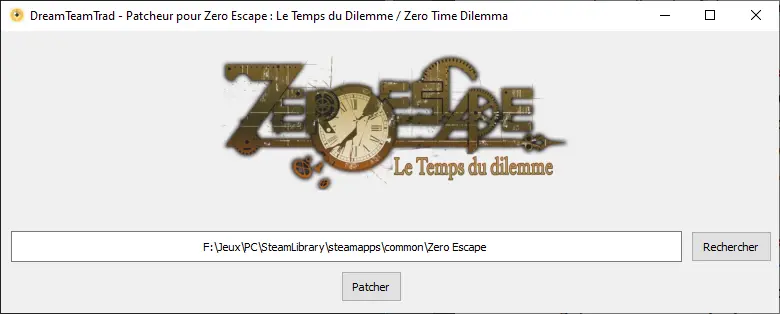
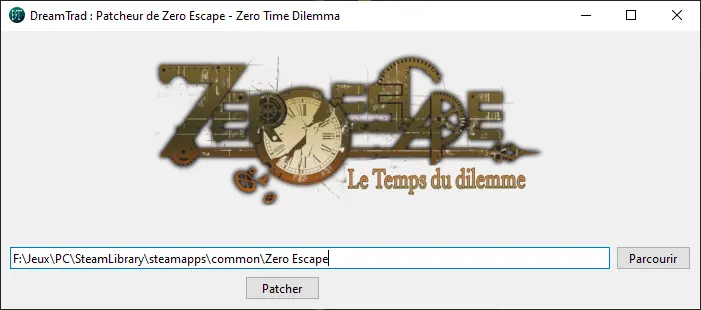
update ztd paranormasight

Changed region(s): [[0.2097, 0.1742, 0.7789, 0.6677], [0.0, 0.3194, 1.0, 1.0], [0.0, 0.0, 1.0, 0.2903]]

diff --git a/src/data/jeux/paranormasight/patchfr/installation/steamdeck.md b/src/data/jeux/paranormasight/patchfr/installation/steamdeck.md
@@ -4,13 +4,11 @@ Une fois que vous avez téléchargé le patch, il faudra d’abord l’extraire 
 
 - Allez en mode bureau et télécharger le patch. (Steamdeck)
 - Clic droit sur l’exe, faire ajouter à Steam.
-- Retournez en mode jeu, sur le "jeu" "PARANORMASIGHT_patch_automatique", allez dans les propriétés, et cocher la case pour compatibilité.
-- Vous pouvez désormais lancer le patcheur automatique
-- Sélectionnez le répertoire du jeu avec le bouton "Rechercher" s’il n’apparait pas automatiquement.
-- Cliquez sur "Patcher".
-- Attendez un petit moment…
-- … Et c’est bon !
-
-Si vous avez des problèmes, tentez de patcher manuellement.
+- Retournez en mode jeu, sur le *"jeu"* "DreamTrad_patcheur_fr_PARANORMASIGHT", allez dans les propriétés, et cocher la case pour compatibilité.
 
 ![Image logiciel pour patcher automatiquement](/jeux/paranormasight/patchfr/installation/logiciel_patch_auto.webp)
+
+- Si le chemin de votre jeu n’apparait pas, sélectionnez le avec le bouton "Parcourir".
+- Cliquez sur "Patcher". Attendez un peu, et ça sera bon, votre jeu sera patché !
+
+Si vous avez des problèmes, tentez de patcher manuellement.

diff --git a/src/data/jeux/ztd/patchfr/installation/steamdeck.md b/src/data/jeux/ztd/patchfr/installation/steamdeck.md
@@ -9,11 +9,11 @@ Propriétés → Fichiers installés → Vérifier l’intégrité des fichiers 
 
 - Allez en mode bureau et télécharger le patch. (Steamdeck)
 - Clic droit sur l’exe, faire ajouter à Steam.
-- Retournez en mode jeu, sur le "jeu" "ZTD_patch_automatique", allez dans les propriétés, et cocher la case pour compatibilité.
+- Retournez en mode jeu, sur le *"jeu"* "DreamTrad_patcheur_fr_ZeroTimeDilemma", allez dans les propriétés, et cocher la case pour compatibilité.
 
 ![Image logiciel pour patcher automatiquement](/jeux/ztd/patchfr/installation/logiciel_patch_auto.webp)
 
-- Si le chemin de votre jeu n’apparait pas, sélectionnez le avec le bouton "Rechercher".
+- Si le chemin de votre jeu n’apparait pas, sélectionnez le avec le bouton "Parcourir".
 - Cliquez sur "Patcher". Attendez un peu, et ça sera bon, votre jeu sera patché !
 
 Si vous avez des problèmes, tentez de patcher manuellement.

diff --git a/src/data/jeux/ai1/patchfr/installation/steamdeck.md b/src/data/jeux/ai1/patchfr/installation/steamdeck.md
@@ -2,11 +2,6 @@
 
 Une fois que vous avez téléchargé le patch, il faudra d’abord l’extraire car c’est un dossier compressé zip.
 
-- Si les fichiers de votre jeu ont été modifiés, allez dans les paramètres du jeu sur Steam, et faite :
-Propriétés → Fichiers installés → Vérifier l’intégrité des fichiers du jeu
-
-![Image restoration des fichiers d’origine Steam](/jeux/999/patchfr/installation/steam_restoration_fichiers.webp)
-
 - Allez en mode bureau et télécharger le patch. (Steamdeck)
 - Clic droit sur l’exe, faire ajouter à Steam.
 - Retournez en mode jeu, sur le *"jeu"* "DreamTrad_patcheur_fr_AI_The_Somnium_Files", allez dans les propriétés, et cocher la case pour compatibilité.

diff --git a/src/data/jeux/paranormasight/patchfr/installation/windows.md b/src/data/jeux/paranormasight/patchfr/installation/windows.md
@@ -2,10 +2,9 @@
 
 Une fois que vous avez téléchargé le patch, il faudra d’abord l’extraire car c’est un dossier compressé zip.
 
-- Lancez PARANORMASIGHT_patch_automatique.exe.
-- Sélectionnez le répertoire du jeu avec le bouton "Rechercher" s’il n’apparait pas automatiquement.
-- Cliquez sur "Patcher".
-- Attendez un petit moment…
-- … Et c’est bon !
+- Lancez DreamTrad_patcheur_fr_PARANORMASIGHT.
 
 ![Image logiciel pour patcher automatiquement](/jeux/paranormasight/patchfr/installation/logiciel_patch_auto.webp)
+
+- Si le chemin de votre jeu n’apparait pas, sélectionnez le avec le bouton "Parcourir".
+- Cliquez sur "Patcher". Attendez un peu, et ça sera bon, votre jeu sera patché !

diff --git a/src/data/jeux/ztd/patchfr/installation/windows.md b/src/data/jeux/ztd/patchfr/installation/windows.md
@@ -7,10 +7,9 @@ Propriétés → Fichiers installés → Vérifier l’intégrité des fichiers 
 
 ![Image restoration des fichiers d’origine Steam](/jeux/999/patchfr/installation/steam_restoration_fichiers.webp)
 
-
-- Lancez ZTD_patch_automatique.exe.
+- Lancez DreamTrad_patcheur_fr_ZeroTimeDilemma.
 
 ![Image logiciel pour patcher automatiquement](/jeux/ztd/patchfr/installation/logiciel_patch_auto.webp)
 
-- Si le chemin de votre jeu n’apparait pas, sélectionnez le avec le bouton "Rechercher".
+- Si le chemin de votre jeu n’apparait pas, sélectionnez le avec le bouton "Parcourir".
 - Cliquez sur "Patcher". Attendez un peu, et ça sera bon, votre jeu sera patché !

diff --git a/src/data/jeux/ai1/patchfr/installation/windows.md b/src/data/jeux/ai1/patchfr/installation/windows.md
@@ -2,11 +2,6 @@
 
 Une fois que vous avez téléchargé le patch, il faudra d’abord l’extraire car c’est un dossier compressé zip.
 
-- Si les fichiers de votre jeu ont été modifiés, allez dans les paramètres du jeu sur Steam, et faite :
-Propriétés → Fichiers installés → Vérifier l’intégrité des fichiers du jeu
-
-![Image restoration des fichiers d’origine Steam](/jeux/999/patchfr/installation/steam_restoration_fichiers.webp)
-
 - Lancez DreamTrad_patcheur_fr_AI_The_Somnium_Files.
 
 ![Image logiciel pour patcher automatiquement](/jeux/ai1/patchfr/installation/logiciel_patch_auto.webp)
